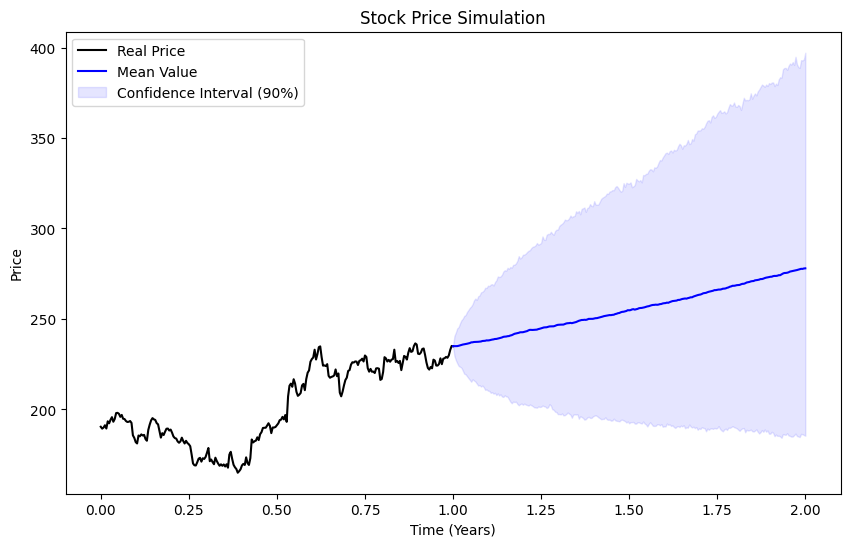
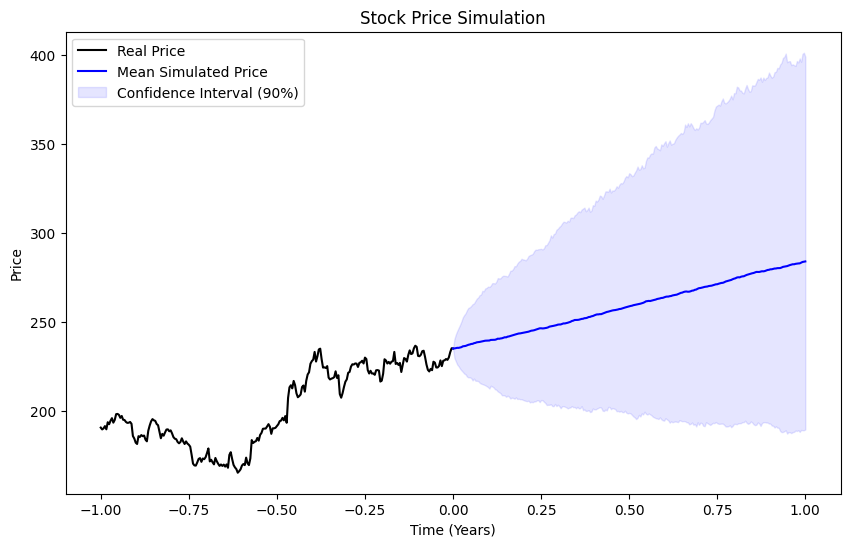
Portfolio Update

diff --git a/docs/Finance Project.py.md b/docs/Finance Project.py.md
@@ -34,11 +34,11 @@ trajectories = simulated_prices(mu.values, sqrt_A, S_0, T, dt, simulations)
 mean_simulation = np.mean(trajectories, axis=2)
 percentiles = np.percentile(trajectories, [5, 95], axis=2)
 
-time_points = np.linspace(1, T+1, trajectories.shape[0])
+time_points = np.linspace(0, T, trajectories.shape[0])
 for i, ticker in enumerate(data.columns):
     plt.figure(figsize=(10, 6))
-    plt.plot(np.linspace(0, T, len(data)), data[ticker].values, label='Real Price', color='black')
-    plt.plot(time_points, mean_simulation[:, i], label='Mean Value', color='blue')
+    plt.plot(np.linspace(-1, 0, len(data)), data[ticker].values, label='Real Price', color='black')
+    plt.plot(time_points, mean_simulation[:, i], label='Mean Simulated Price', color='blue')
     plt.fill_between(
         time_points,
         percentiles[0, :, i],
